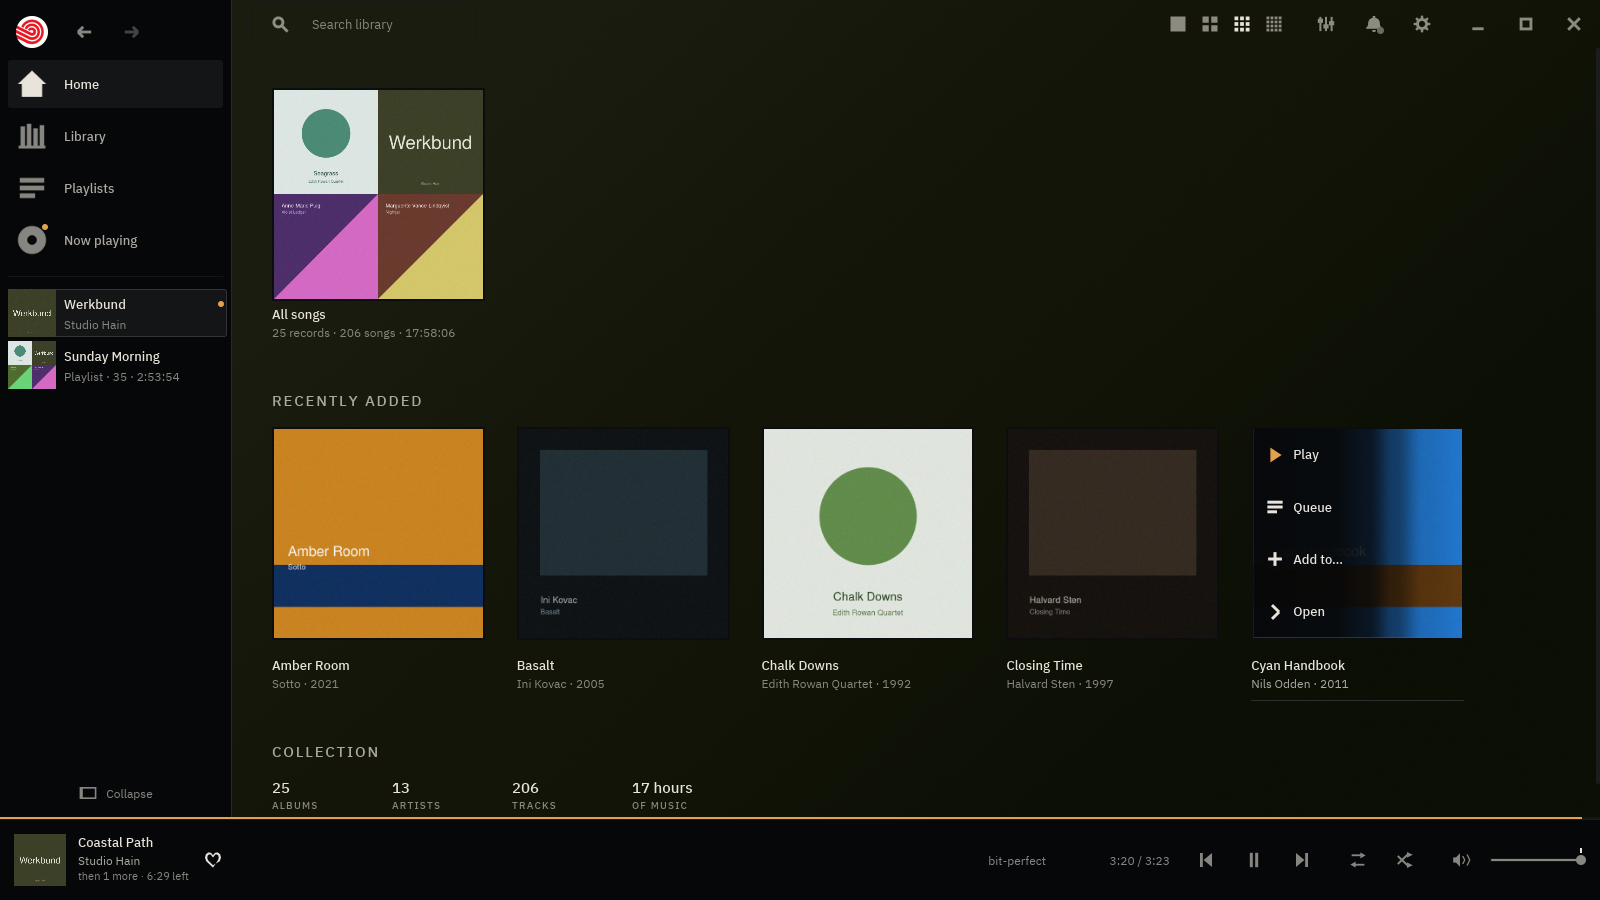
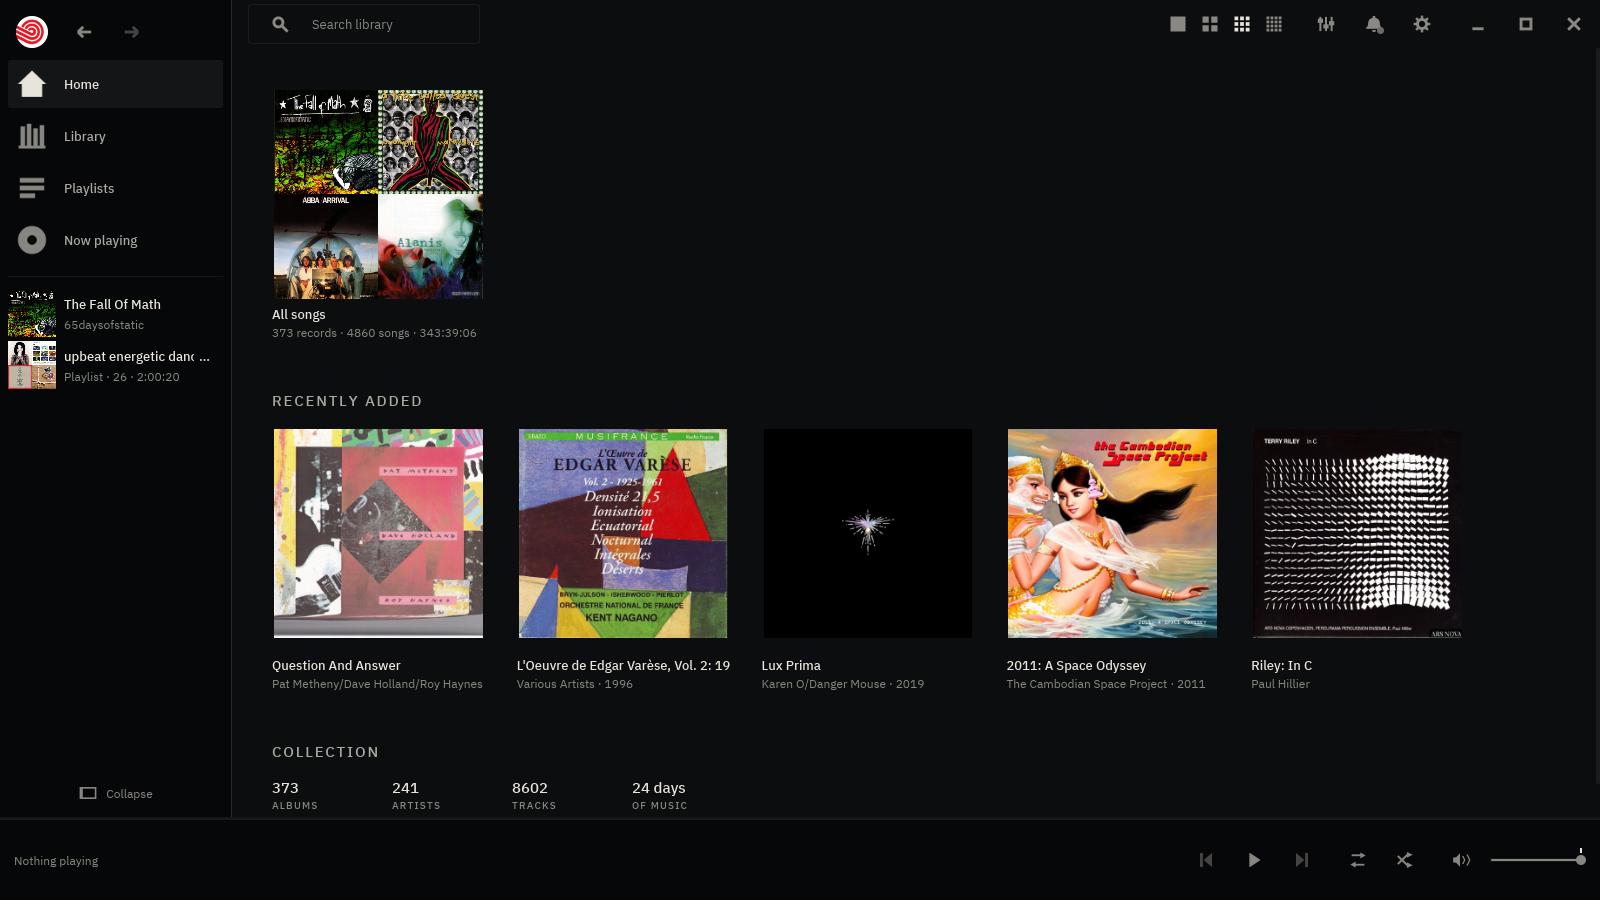
Capture release screenshots from real library by default

diff --git a/README.md b/README.md
@@ -76,7 +76,7 @@ the bottom. Every track is analysed on your own machine, and none of your
 audio leaves it.
 
 > These are real screenshots from the shipping binary, captured against the
-> project's representative music fixture — not mock-ups.
+> maintainer's real music library — not mock-ups.
 > `docs/screenshots/capture.sh` refreshes them reproducibly.
 
 The long version of all of this — every audio claim and how it is checked — is
